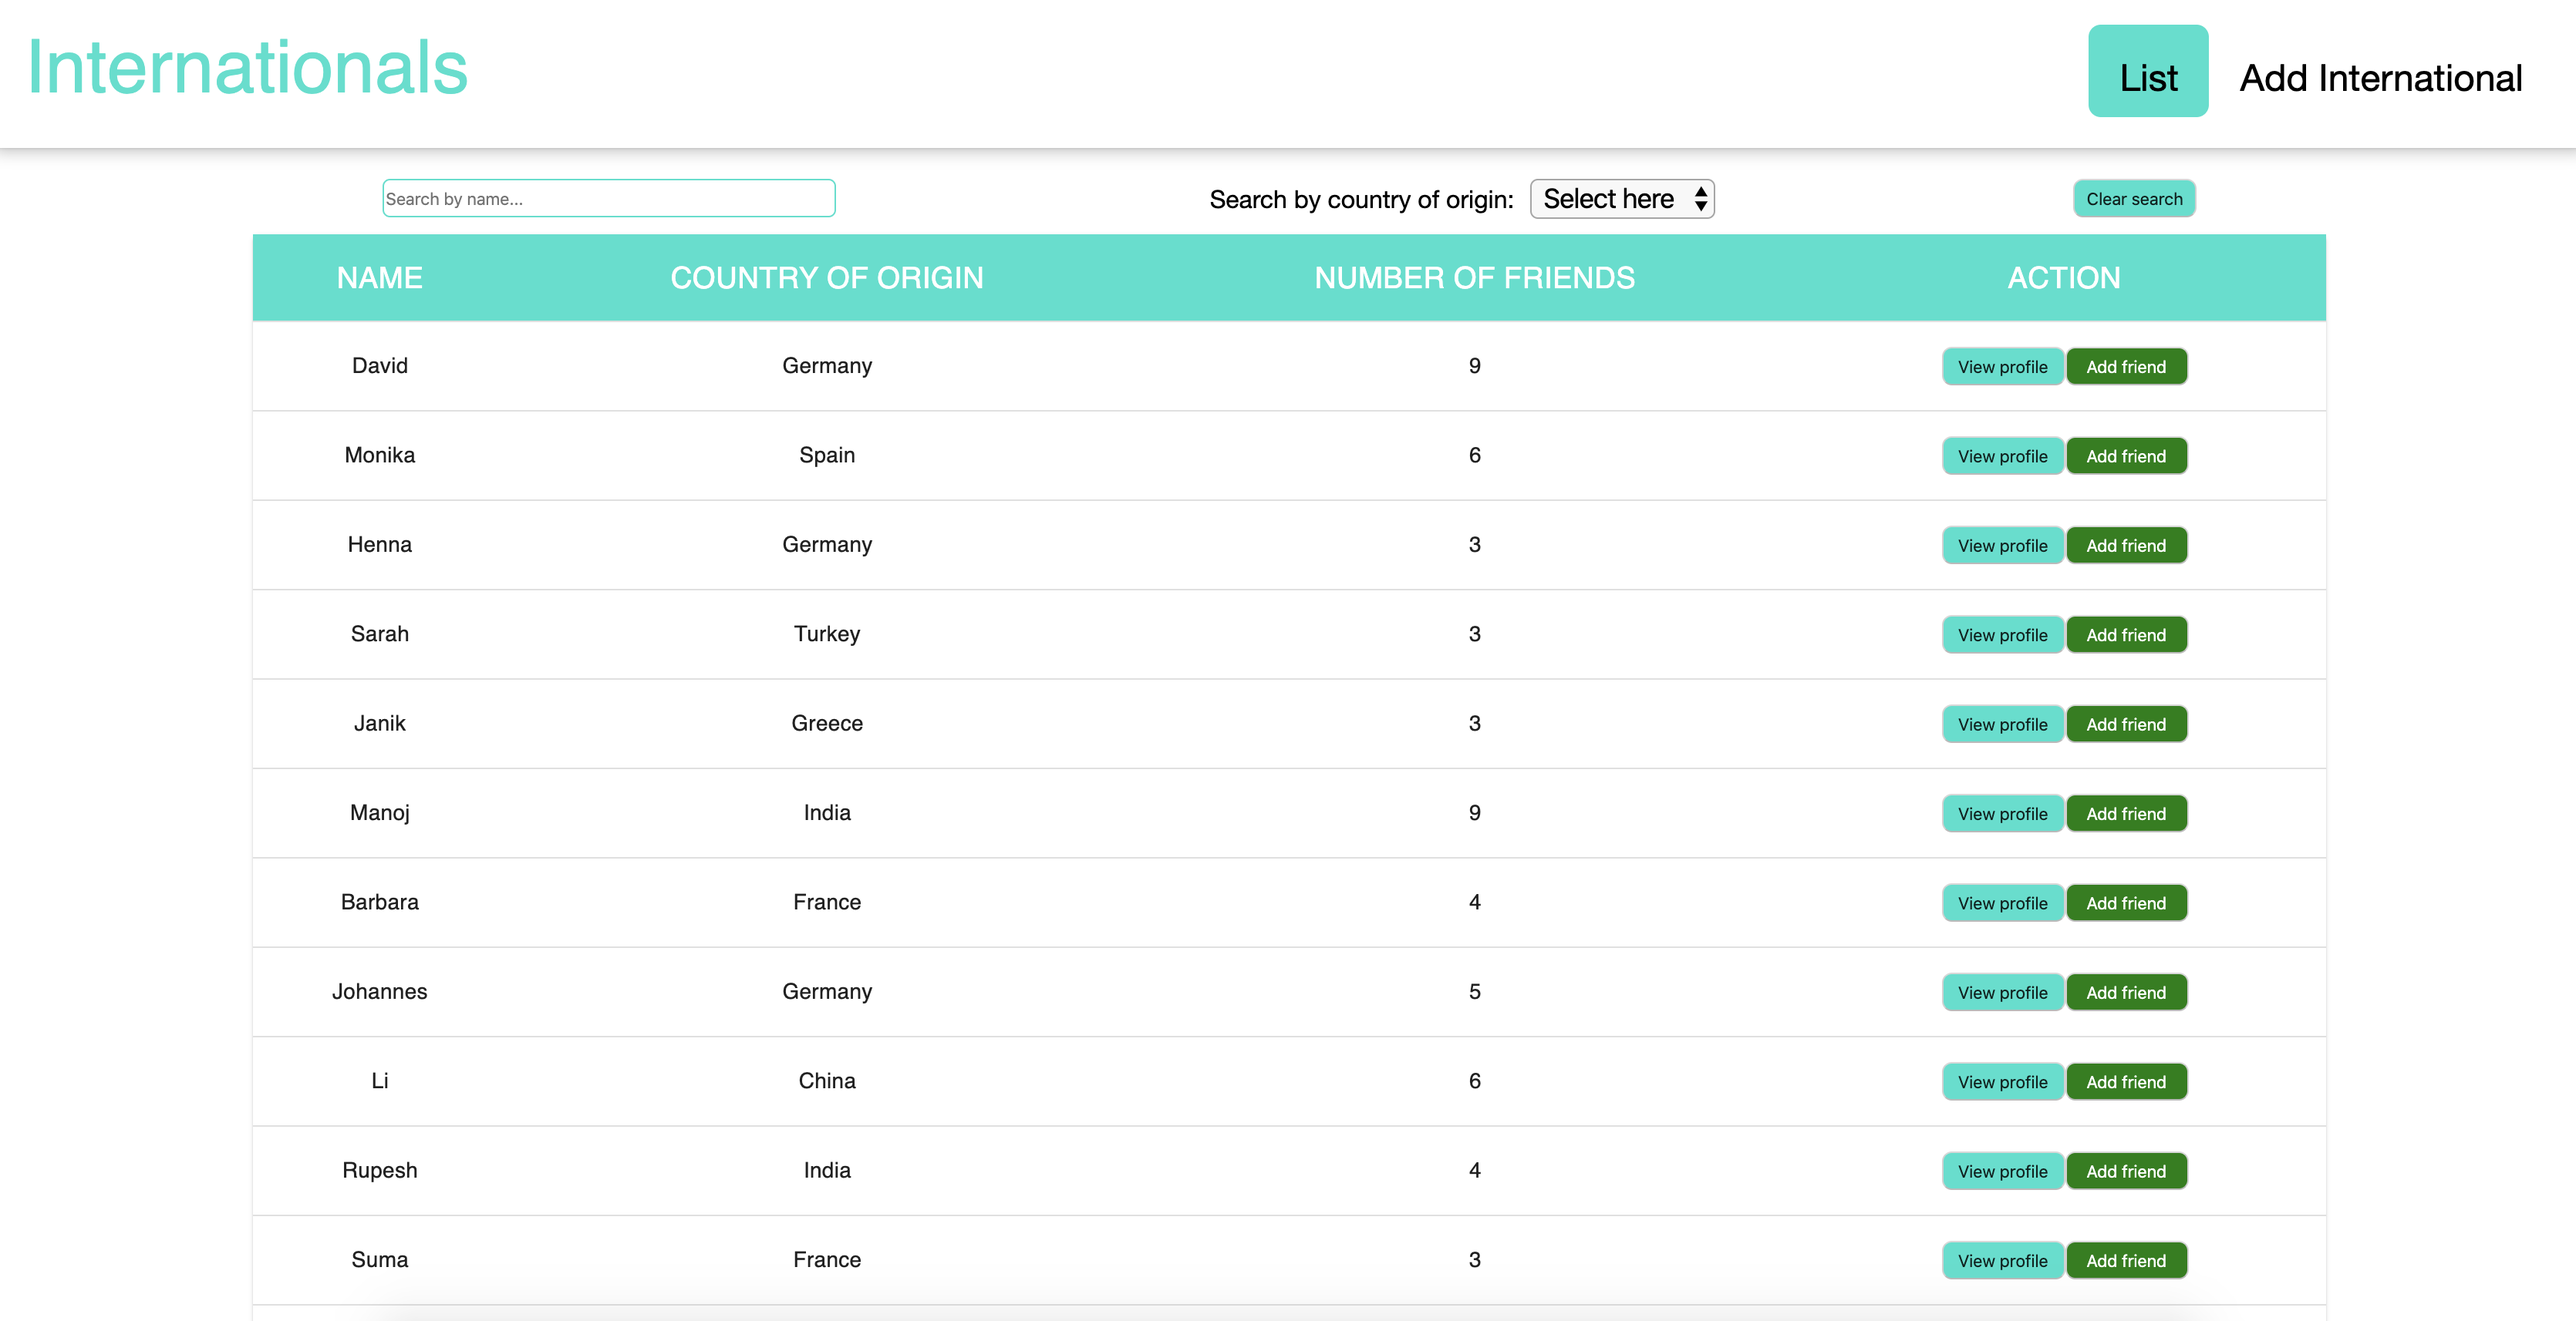
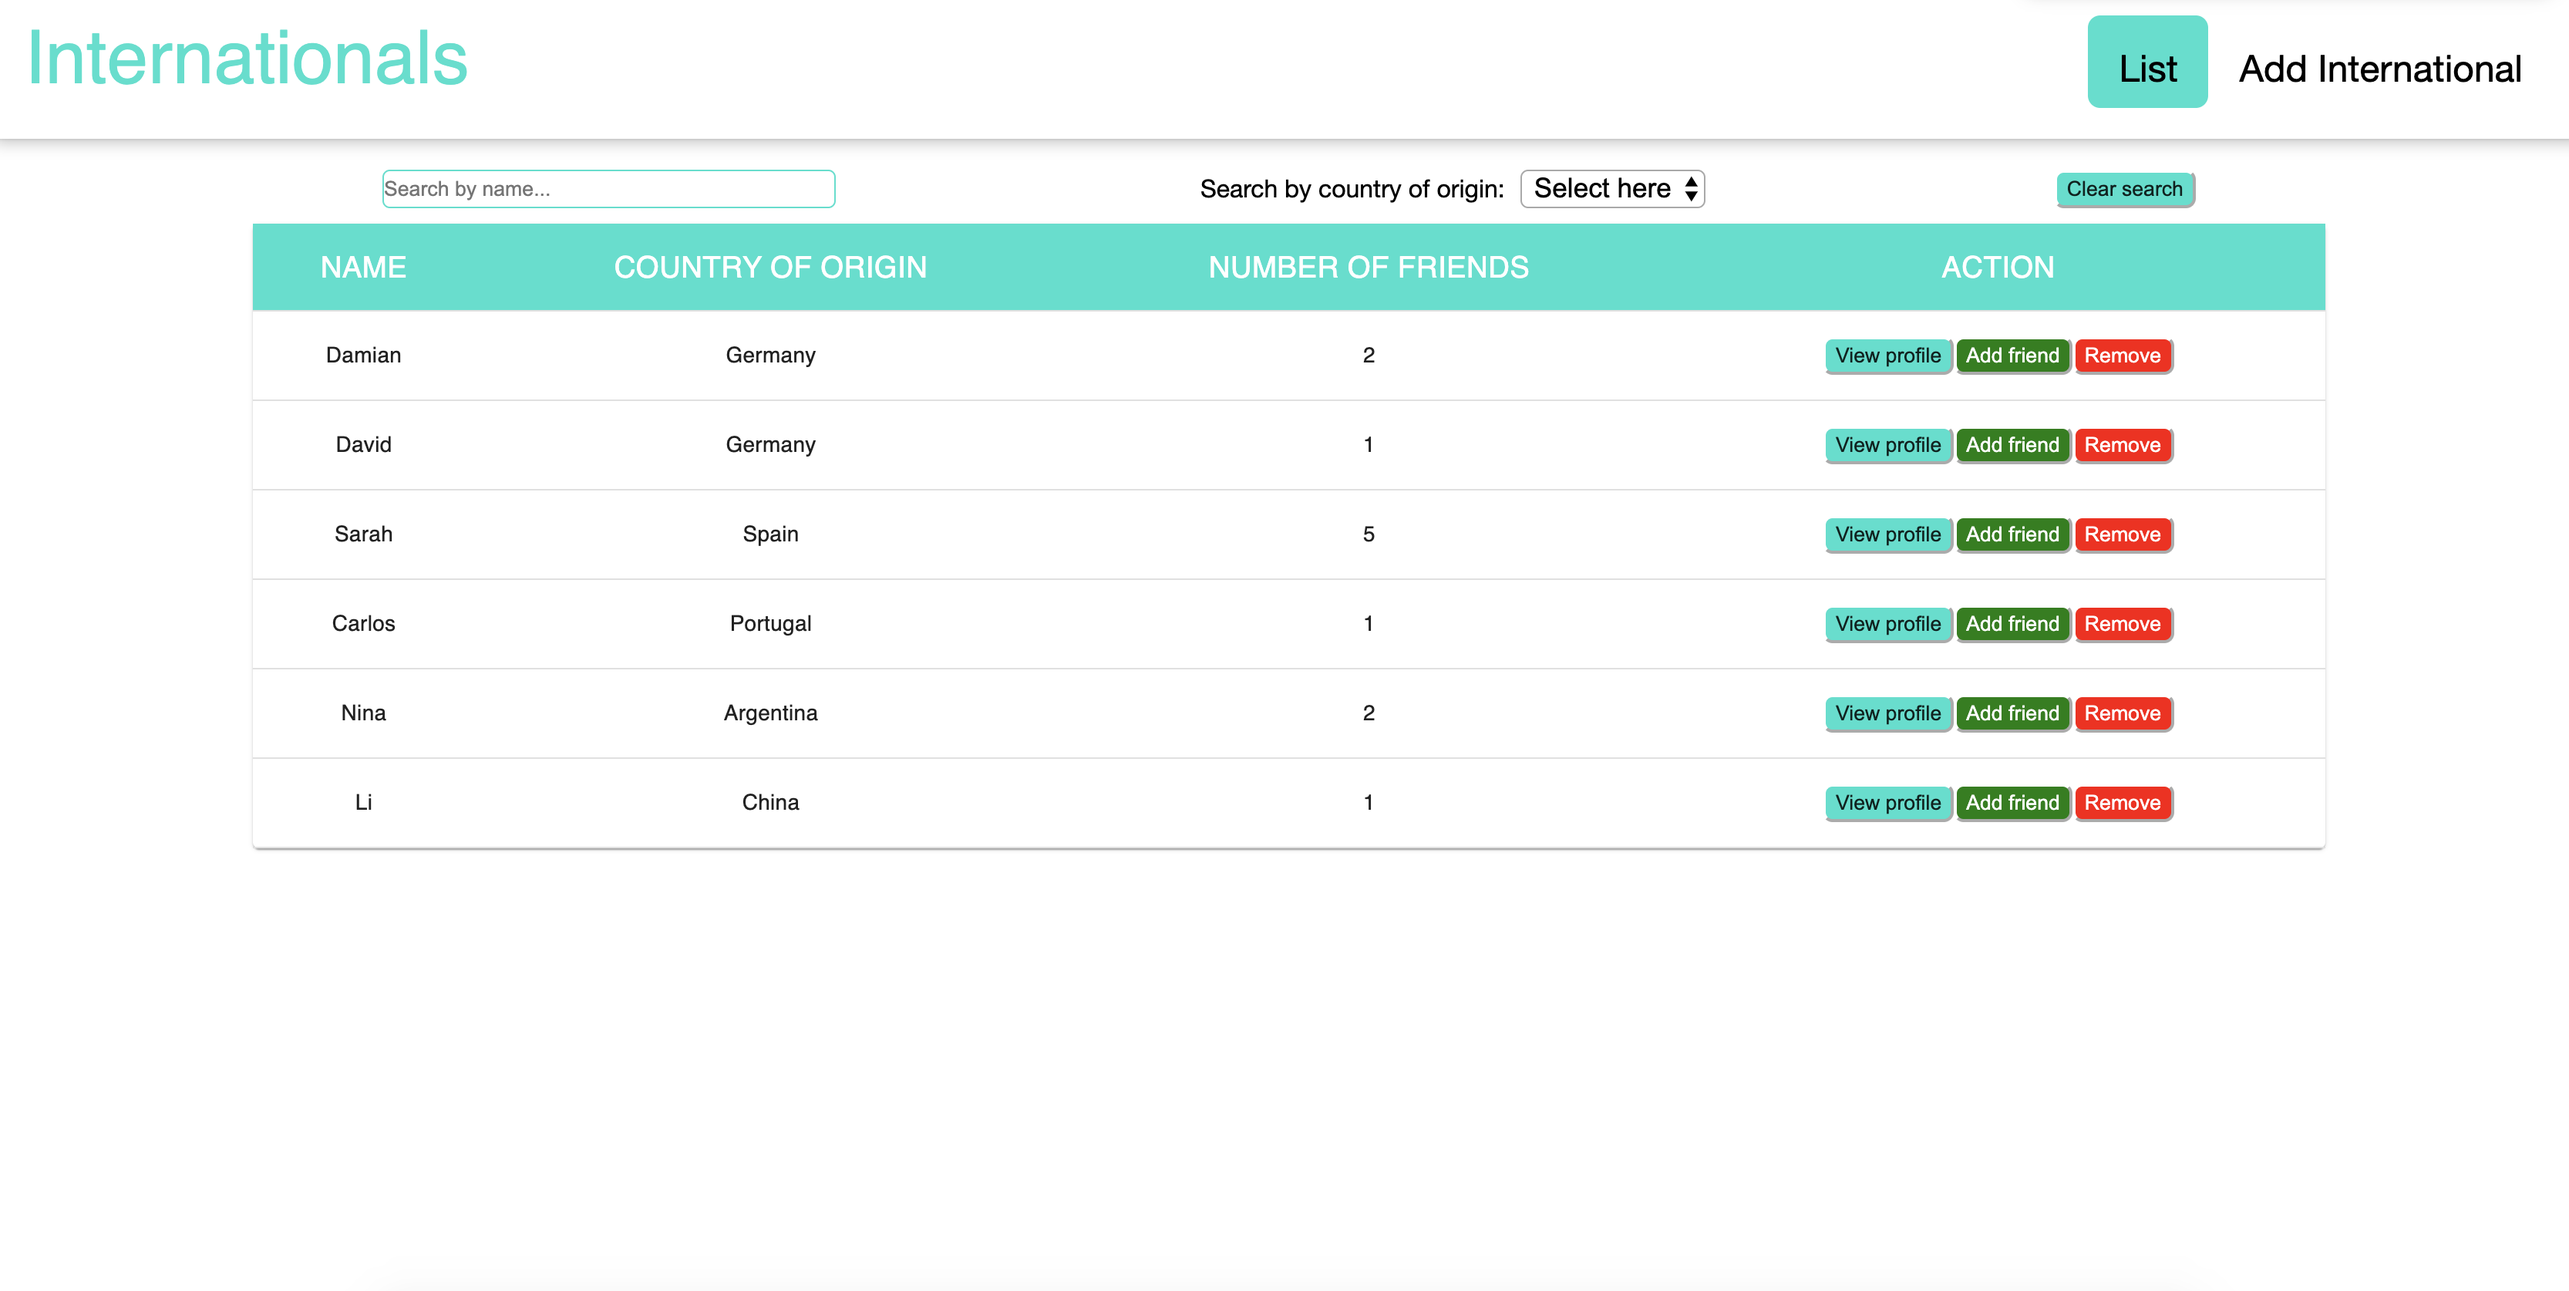
update Readme

diff --git a/README.md b/README.md
@@ -1,13 +1,12 @@
 # Internationals app
 
-The **Internationals** app was coding challenge giving my company [Localyze](https://www.localyze.de/).
+The **Internationals** app was a coding challenge giving by the company [Localyze](https://www.localyze.de/)
 
 ## Table of Contents
 
 - [Introduction](#introduction)
 - [Technologies](#technologies)
 - [Setup](#setup)
-- [Acknowledgements](#Acknowledgements)
 - [Images](#images)
 
 ## Introduction
@@ -16,8 +15,8 @@ With this app, one can add an employee (we call "internationals") with thier cou
 
 ### Functionalities
 
-- One can add an International using a form
-- One can add friends by choosing.
+- One can add an International using a form and remove
+- One can add friends/unfriend by choosing.
 - The index page shows all the existing members with thier country of origin, number of friends and links to thier profile
 - When viewing a profile, it displays name and country along with links to his/her friends page
 
@@ -36,6 +35,7 @@ The app was built [create-react-app](https://create-react-app.dev/) and MERN Sta
 - mongoose
 - react-router-dom
 - react-scripts
+- prop-types
 - styled-components
 - material-ui
 
@@ -45,6 +45,12 @@ The app was built [create-react-app](https://create-react-app.dev/) and MERN Sta
 - eslint-plugin-cypress
 - nodemon
 - npm-run-all
+
+### Development tools
+
+- Visual Studio Code
+- Postman
+- MongoDB compass
 
 ## Setup
 
@@ -68,6 +74,14 @@ npm install
 npm start
 ```
 
+5. Run cypress test by running below command
+
+```
+npm run cypress
+```
+
+Click Run all specs to run all test or click individual spec
+
 ## Images
 
 ### Index page
@@ -81,7 +95,3 @@ npm start
 ### Profile page
 
 <img src="./public/Profile_page.png">
-
-## Acknowledgements
-
-- I would like to thank the entire team of Localyze for giving me this coding challenge
